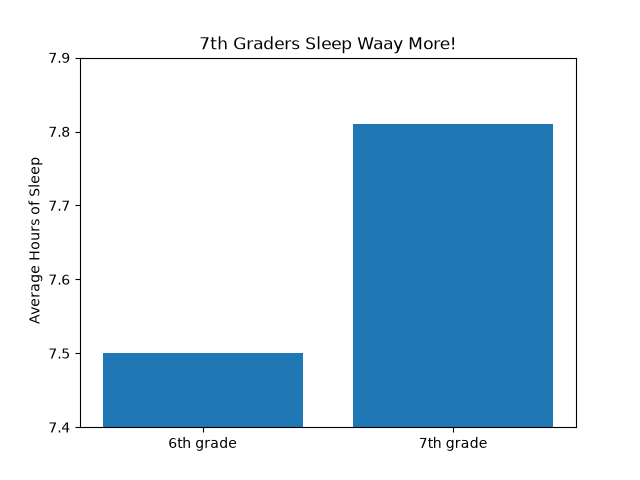
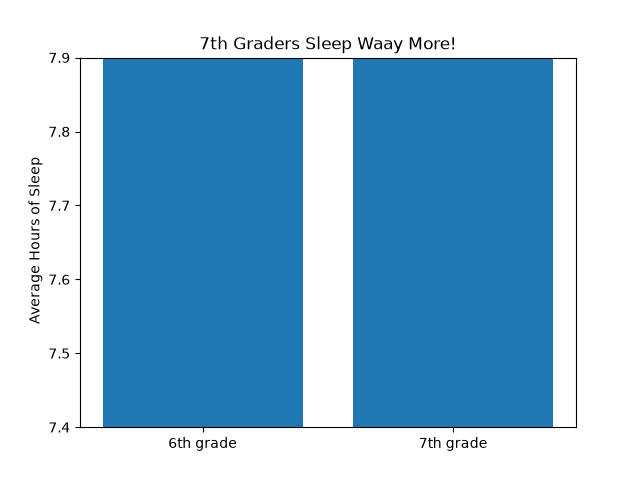
Week10: One Pagers

Changed region(s): [[0.1562, 0.125, 0.5, 0.75], [0.5312, 0.125, 0.875, 0.2812]]

diff --git a/week8.py b/week8.py
@@ -1,13 +1,13 @@
 #%%
 import pandas as pd
 import matplotlib.pyplot as plt
-survey = pd.read_csv('class_survey_v2_clean.csv')
+df = pd.read_csv('clean_class_survey_v2.csv')
 
 #%%
 
 #create a dataframe called sleep, which stores the data grouped by grade 
 # and gets the average hours of sleep per grade rounded to 2 decimals
-sleep = survey.groupby("grade")["hours_sleep"].mean().round(2)
+sleep = df.groupby("grade")["hours_sleep"].mean().round(2)
 # The Misleading
 plt.bar(["6th grade", "7th grade"], sleep.values)
 plt.ylim(7.4, 7.9)
@@ -24,12 +24,14 @@ plt.ylabel("Average Hours of Sleep")
 plt.savefig("The Unbiased.png")
 
 #%%
-sg = (survey.groupby("favorite_subject")["minutes_gaming"]
+subject_data = df.dropna(subset=['favorite_subject', 'minutes_gaming'])
+g = subject_data.groupby('favorite_subject')['minutes_gaming'].agg(['mean', 'count']).round(2)
+sg = (df.groupby("favorite_subject")["minutes_gaming"]
    .agg(["mean", "count"]).round(1)
    .sort_values("mean", ascending=False)   
       )
 plt.bar(sg.index, sg["mean"])
-plt.ylim(0, 150)
+plt.ylim(0, 160)
 for i, (mean, n) in enumerate(zip(sg["mean"], sg["count"])):
     plt.text(i, mean +4, f'n={n}', ha = "center")
 plt.title("Average Minutes Gaming by Favorite Subject and how many Contributed(40 students)")
@@ -37,3 +39,34 @@ plt.xlabel("Subjects")
 plt.ylabel("Minutes Gaming")
 
 # %%
+# EXTRA STUFF WE DO TO THIS IN WEEK 10
+fig, ax = plt.subplots(figsize = (8, 5))
+ax.set_title(" Students who like PE game the most - about 2 hours a day", fontsize = 16)
+ax.set_xlabel("Favorite School Subject", fontsize=13)
+ax.set_ylim(0,150)
+ax.set_ylabel("Average Minutes Gaming per day", fontsize=13)
+ax.tick_params(labelsize=12)
+#Typical Projector sizes
+#Title: 16
+#Labels: 13
+#Tick Labels: 12 
+#Caption: 10
+
+for i, (mean, n) in enumerate(zip(g['mean'], g['count'])):
+    label = f'{int(round(mean))} min'
+    label = label + f'\n({n} students)'
+    #pressing backslash ABOVE gives us a new line below that string IN WHICH we put the other stuff we type after that string. 
+    ax.text(i,mean + 5, label, ha="center", fontsize=11)
+# HIGHLIGHT one bar
+colors = []
+for subject in g.index:
+    if subject == 'PE':
+        colors.append("#00EEFF")
+    else:
+        colors.append("#FF0000")
+ax.bar(g.index, g['mean'], color=colors)    
+
+fig.tight_layout()
+fig.subplots_adjust(bottom=0.22)
+fig.text(0.5, 0.06, 'Only 5 students picked PE, so this gap could change a lot with one more answer.', ha='center', fontsize=10)
+fig.savefig('one_pager.png', dpi=150)

diff --git a/Week9.py b/Week9.py
@@ -3,7 +3,7 @@ import pandas as pd
 import matplotlib.pyplot as plt
 
 #%%
-df = pd.read_csv('TF_clean_class_survey_v2.csv')
+df = pd.read_csv('clean_class_survey_v2.csv')
 
 #%%
 d = df.dropna(subset=['hours_sleep', 'minutes_gaming']) #Only keeps students who answered both
@@ -18,12 +18,12 @@ axes[0].set_title('Every Student (37)')
 
 d = d.copy()
 d['group'] = (d['minutes_gaming'] > 90).map({True: 'Games 90+ min', False: "Games under 90"})
-g = (d.groupby('group')['hours_sleep'].agg(['mean', 'count']).round(2))
-g = g.reindex(['Games under 90 min', 'Games 90+ min'])
+
+g = g.reindex(['Games under 90', 'Games 90+ min'])
 
 axes[1].bar(g.index, g['mean'])
 axes[1].set_ylim(0,11)
-axes[1].set_ylabel('Average hours of sleep')
+axes[1].set_ylabel('Average hors of sleep')
 
 for i, (mean, n) in enumerate(zip(g['mean'], g['count'])):
     axes[1].text(i, mean + 0.3, f'n={int(n)}', ha='center')
@@ -33,3 +33,4 @@ axes[1].axhline(d['hours_sleep'].mean(), color='red', linestyle='--')
 fig.suptitle('Do students who game more sleep less? No - not in our class.')
 fig.tight_layout()
 fig.savefig('gaming_sleep_story.png')
+

diff --git a/Week9 hw.py b/Week9 hw.py
@@ -1,0 +1,29 @@
+#%%
+import pandas as pd
+import matplotlib.pyplot as plt
+df = pd.read_csv("clean_class_survey_v2.csv")
+# %%
+d = df.dropna(subset=['hours_sleep', 'minutes_gaming']) #Only keeps students who answered both
+fig, axes = plt.subplots(1, 2, figsize=(10, 4)) #axes[0] = left chart and axes[1] = right chart
+
+#Left panel time!
+axes[0].scatter(d['minutes_gaming'], d['minutes_reading'])
+axes[0].set_xlabel('Minutes Gaming')
+axes[0].set_ylabel('Minutes Reading')
+axes[0].set_ylim(0,12)
+axes[0].set_title('Every Student that answered both(37)')
+
+
+# Righty now
+
+g = (d.groupby('minutes_gaming')['hours_sleep'].agg(['mean', 'count']).round(2))
+
+
+axes[1].bar(g.index, g['mean'])
+axes[1].set_ylim(0,11)
+axes[1].set_ylabel('Average hours of sleep')
+
+for i, (mean, n) in enumerate(zip(g['mean'], g['count'])):
+    axes[1].text(i, mean + 0.3, f'n={int(n)}', ha='center')
+
+axes[1].axhline(d['hours_sleep'].mean(), color='red', linestyle='--')

diff --git a/README.md b/README.md
@@ -6,7 +6,7 @@
 A data project about our class survey, for a data science course
 
 ## Where the data came from
-We surveyed 40 students(fake) in a(fake)class and asked them about their grade, favorite subject, pet, minutes reading, minutes gaming, and hours of sleep. 
+We surveyed 40 students(fake) in a(fake)class and asked them about their grade, favorite subject, pet, minutes reading, minutes gaming, and hours of sleep per day. 
 We collected the (fake) data a second time and that version needed cleaning.
 
 ## What's in this folder

diff --git a/.md b/.md
@@ -1,1 +1,2 @@
-# 
+# Do people who game a lot read a lot?
+I think it's going to be 50/50. Some people game just cuz it's fun. Others might game and read cuz both are cool. Maybe a bit more support for just gaming, but less reading.
